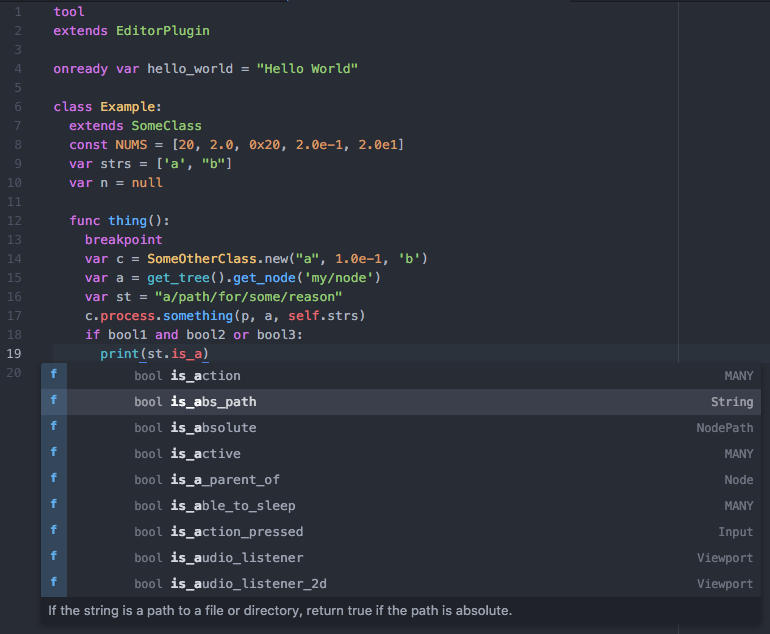
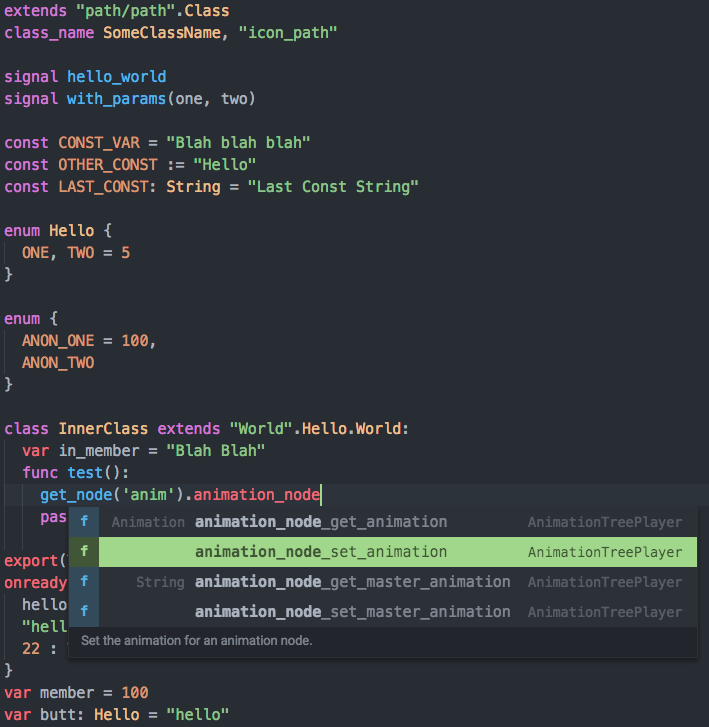
Updated readme and demo image

diff --git a/README.md b/README.md
@@ -4,35 +4,16 @@
 
 GDScript (Godot Scripting Language) grammar for atom.io.
 
-Converted from the sublime text grammar: https://github.com/beefsack/GDScript-sublime
-
 ### Features
 
-- Syntax highlighting
-- Autocompletion! (using autocomplete+). Will be obsolete! Check out: [atom-autocomplete-gdscript](https://atom.io/packages/autocomplete-gdscript) by [neikeq](https://github.com/neikeq/atom-autocomplete-gdscript)
-- Symbol generation with [goto](https://atom.io/packages/goto) package
-- tree-sitter-gdscript support
+- Syntax highlighting via tree-sitter-gdscript
+- Basic identifier based autocompletion support
+- Basic symbol lookup with Atom's builtin symbol viewer
+- Supports typed GDScript
 
 ### Install
 
 - `apm install lang-gdscript`
   - use lang-gdscript because there's another language-gdscript package
 - or from atom > settings > install
-
-### TODOS
-
-- [DONE] implement tree-sitter-gdscript
-- [DONE] Fix Comments
-- [DONE] ~~Remove~~ Reduce Duplicates
-- [DONE] Reduce Precedence
-- [DONE] Turn Off Exclude Lower Precedence
-- [DONE] Add Classes to completions (totally forgot)
-- [DONE] Add class extends snippet (as clex)
-- [DONE] Disable .variable.other.gdscript
-- [DONE] Add scope of class/method/constant/signal to right label
-- [DONE] Correct some of the entities that won't highlight individual pieces (typing `class` won't highlight until you have `class Name:`)
-- [DONE] add the other support functions (this is going give a long, *long* list)
-- [DONE] fix support for [goto](https://atom.io/packages/goto) package (symbol generator)
-- [] follow grammar guidelines more strictly
-- [] add better completions using the base class
-- [] update docs
+  - search `lang-gdscript`
